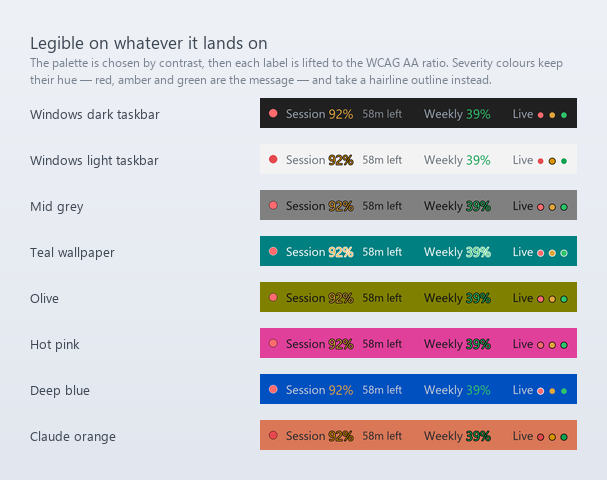
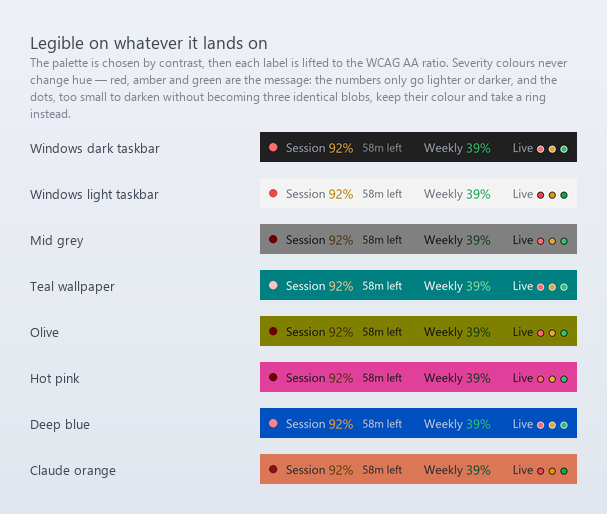
Rescue severity colours by lightness, not by outlining them
Building the gallery sheets made the previous fix look wrong at a glance. The
outline around every severity colour resolved, at the size these are actually
drawn, into a dark halo around each number — and strip.png is the first image
on the project page. It read as heavier and muddier than what it replaced,
which is a poor trade for a contrast ratio nobody sees.

Rendering the alternatives side by side settled it. Moving a colour along
LIGHTNESS alone keeps its hue: amber on a pale taskbar becomes a deeper
amber, still obviously amber and still obviously not the green beside it, and
no halo. On every background tried it looked cleaner than the outline and
than the untreated original.

The dots keep the outline, and for a reason the same comparison showed: they
are four pixels across, and darkening them enough to meet contrast turns red,
amber and green into three identical dark blobs. At that size a ring costs
nothing and the fill stays at full strength. So the numbers get the treatment
that suits a glyph you read, and the dots get the one that suits a shape you
recognise — which is what they respectively are.

Also here: the gallery sheets themselves, which is how all of this was seen.
A picture of every state turns out to be a rather effective test.

diff --git a/render.py b/render.py
@@ -69,14 +69,46 @@ def _rgb(color):
     return ImageColor.getrgb(color)[:3] if isinstance(color, str) else tuple(color[:3])
 
 
-def outline_for(bg):
-    """Black or white — whichever separates a shape from *bg*.
+def keeping_hue(color, bg, target=SHAPE_CONTRAST):
+    """*color* made legible on *bg* by changing only how light it is.
 
-    Used instead of recolouring anything whose COLOUR is the message. Red,
-    amber and green mean blocked, working and done; pushing them until they
-    contrast turns all three into the same near-black on a grey taskbar and
-    the same white on a teal one, which is a worse failure than being hard to
-    see. A hairline outline makes the shape visible and leaves the fill alone.
+    For anything whose COLOUR is the message — red, amber and green mean
+    blocked, working and done. Blending toward black or white the way
+    readable() does would turn all three into the same near-black on a grey
+    taskbar, which destroys the meaning rather than the legibility.
+
+    Moving along lightness alone keeps the hue: amber on a pale taskbar
+    becomes a deeper amber, still obviously amber, and still obviously not
+    the green next to it.
+    """
+    import colorsys
+
+    rgb, back = _rgb(color), _rgb(bg)
+    if contrast_ratio(rgb, back) >= target:
+        return color
+    h, light, s = colorsys.rgb_to_hls(*[c / 255.0 for c in rgb])
+    up = contrast_ratio(back, (255, 255, 255)) >= contrast_ratio(back, (0, 0, 0))
+    best, best_ratio = rgb, contrast_ratio(rgb, back)
+    for step in range(1, 25):
+        t = step / 24.0
+        cand_l = light + (1.0 - light) * t if up else light * (1.0 - t)
+        cand = tuple(round(c * 255) for c in colorsys.hls_to_rgb(h, cand_l, s))
+        ratio = contrast_ratio(cand, back)
+        if ratio > best_ratio:
+            best, best_ratio = cand, ratio
+        if ratio >= target:
+            break
+    return "#%02x%02x%02x" % best
+
+
+def outline_for(bg):
+    """Black or white — whichever separates a small shape from *bg*.
+
+    The session dots are four pixels across, and at that size darkening them
+    to meet contrast turns red, amber and green into three dark blobs. They
+    keep their colour at full strength and get a ring instead, which costs
+    nothing at that size. The numbers do the opposite: a ring around a glyph
+    reads as an outline you notice rather than a number you read.
     """
     back = _rgb(bg)
     return "#ffffff" if contrast_ratio(back, (255, 255, 255)) >= \
@@ -348,27 +380,27 @@ def render_strip(disp, bg_hex, theme, scale=3, metrics=("session", "weekly")):
     groups = []
     if "session" in metrics and disp.get("session_pct") is not None:
         sp = disp["session_pct"]
-        g = [("Session ", f_lbl, T["dim"], False),
+        g = [("Session ", f_lbl, T["dim"], "label"),
              (f"{sp}%", f_num, sev_color(T, disp.get("session_color", "grey")),
-              True)]
+              "sev")]
         if sp >= 100:  # be explicit when you're actually blocked
-            g.append(("   limit reached", f_dim, sev_color(T, "red"), True))
+            g.append(("   limit reached", f_dim, sev_color(T, "red"), "sev"))
         else:
             left = _fmt_left(disp.get("session_resets_at"))
             if left:
-                g.append(("   " + left, f_dim, T["faint"], False))
+                g.append(("   " + left, f_dim, T["faint"], "label"))
         groups.append(g)
     if "weekly" in metrics and disp.get("weekly_pct") is not None:
         groups.append([
-            ("Weekly ", f_lbl, T["dim"], False),
+            ("Weekly ", f_lbl, T["dim"], "label"),
             (f"{disp['weekly_pct']}%", f_num,
-             sev_color(T, disp.get("weekly_color", "grey")), True)])
+             sev_color(T, disp.get("weekly_color", "grey")), "sev")])
     # NOTE: sessions_* (plural) are the LIVE CLI sessions; session_* (singular)
     # is the 5-hour usage meter. The two dicts are merged before rendering.
     if "sessions" in metrics and disp.get("sessions_count") is not None:
         # "Live", not "Sessions": the strip already says "Session 61%" for the
         # 5-hour usage window, and the two side by side read as the same thing.
-        g = [("Live ", f_lbl, T["dim"], False)]
+        g = [("Live ", f_lbl, T["dim"], "label")]
         dots = disp.get("sessions_dots") or []
         if dots:
             # One dot per session, coloured by its state — readable without
@@ -376,18 +408,18 @@ def render_strip(disp, bg_hex, theme, scale=3, metrics=("session", "weekly")):
             f_dot = _font("reg", 13 * S)
             for i, color in enumerate(dots):
                 g.append(("●" + (" " if i < len(dots) - 1 else ""),
-                          f_dot, sev_color(T, color), True))
+                          f_dot, sev_color(T, color), "dot"))
             over = disp.get("sessions_dots_overflow") or 0
             if over:
-                g.append((f" +{over}", f_dim, T["dim"], False))
+                g.append((f" +{over}", f_dim, T["dim"], "label"))
         else:
-            g.append(("0", f_num, T["dim"], False))
+            g.append(("0", f_num, T["dim"], "label"))
         groups.append(g)
     if not groups:
         groups.append([("Claude  " + (disp.get("session") or "—"), f_dim,
-                        T["dim"], False)])
+                        T["dim"], "label")])
     if disp.get("_demo"):  # unmistakable marker so simulated data isn't mistaken for real
-        groups.insert(0, [("DEMO", f_num, sev_color(T, "amber"), True)])
+        groups.insert(0, [("DEMO", f_num, sev_color(T, "amber"), "sev")])
 
     cand = []
     if disp.get("session_pct") is not None:
@@ -407,7 +439,7 @@ def render_strip(disp, bg_hex, theme, scale=3, metrics=("session", "weekly")):
     tmp = ImageDraw.Draw(Image.new("RGB", (4, 4)))
 
     def gw(g):
-        return sum(tmp.textlength(t, font=f) for (t, f, _c, _m) in g)
+        return sum(tmp.textlength(t, font=f) for (t, f, _c, _k) in g)
 
     total = PAD + (DOT_R * 2 + DOTGAP) + sum(gw(g) for g in groups) \
         + GGAP * (len(groups) - 1) + PAD
@@ -423,34 +455,27 @@ def render_strip(disp, bg_hex, theme, scale=3, metrics=("session", "weekly")):
     # wallpaper the theme's own greys all but vanish — measured at 1.2:1,
     # which is not dim, it is absent. Fixed on the TEXT, never the background:
     # blending into the taskbar is the point of the strip.
-    ring = outline_for(bg_hex)
-    faint_dot = contrast_ratio(_rgb(dot_color), _rgb(bg_hex)) < SHAPE_CONTRAST
     r = DOT_R * (1.7 if disp.get("_pulse") else 1.0)
-    d.ellipse([dx - r, cy - r, dx + r, cy + r], fill=dot_color,
-              outline=ring if faint_dot else None,
-              width=max(1, S // 2) if faint_dot else 0)
+    d.ellipse([dx - r, cy - r, dx + r, cy + r],
+              fill=keeping_hue(dot_color, bg_hex))
     x = PAD + DOT_R * 2 + DOTGAP
     for gi, g in enumerate(groups):
         if gi > 0:
             x += GGAP
-        for (t, f, c, means) in g:
+        for (t, f, c, kind) in g:
             # Every glyph passes through here, the one place that knows both
             # the colour and what it will sit on.
-            if not means:
+            if kind == "dot":
+                d.text((x, cy), t, font=f, fill=c, anchor="lm",
+                       stroke_width=max(1, round(S * 0.6)),
+                       stroke_fill=outline_for(bg_hex))
+            elif kind == "sev":
+                # Lighter or darker only: which colour it is IS the message.
+                d.text((x, cy), t, font=f, fill=keeping_hue(c, bg_hex),
+                       anchor="lm")
+            else:
                 d.text((x, cy), t, font=f, fill=readable(c, bg_hex),
                        anchor="lm")
-            elif contrast_ratio(_rgb(c), _rgb(bg_hex)) < SHAPE_CONTRAST:
-                # Keep the hue — it is what red, amber and green MEAN — and
-                # separate it from the background with a hairline instead.
-                # Scaled with S, because the strip is drawn at S× and then
-                # downsampled: a flat 1px stroke here would come out a third
-                # of a pixel and vanish in the resize. Kept under a full pixel
-                # once resolved — enough to separate the glyph, not so much
-                # that you read the outline instead of the number.
-                d.text((x, cy), t, font=f, fill=c, anchor="lm",
-                       stroke_width=max(1, round(S * 0.7)), stroke_fill=ring)
-            else:
-                d.text((x, cy), t, font=f, fill=c, anchor="lm")
             x += tmp.textlength(t, font=f)
 
     return img.resize((max(1, round(total / S)), round(H / S)), Image.LANCZOS)

diff --git a/tests/test_render.py b/tests/test_render.py
@@ -725,9 +725,33 @@ def test_readable_rescues_every_label_colour_on_every_background():
                     f"{key} on {bg} in the {theme} theme is {ratio:.2f}:1")
 
 
-def test_outline_picks_the_end_the_background_is_furthest_from():
-    assert render.outline_for("#000000") == "#ffffff"
-    assert render.outline_for("#ffffff") == "#000000"
+def test_keeping_hue_leaves_a_visible_colour_alone():
+    assert render.keeping_hue("#e5484d", "#ffffff") == "#e5484d"
+
+
+def test_keeping_hue_reaches_the_target_without_changing_the_hue():
+    import colorsys
+    for bg in HOSTILE:
+        for name in ("red", "amber", "green"):
+            before = render.THEMES["light"][name]
+            after = render.keeping_hue(before, bg)
+            ratio = render.contrast_ratio(render._rgb(after), render._rgb(bg))
+            assert ratio >= render.SHAPE_CONTRAST - 0.01, \
+                f"{name} on {bg} is only {ratio:.2f}:1"
+            hue_before = colorsys.rgb_to_hls(
+                *[c / 255 for c in render._rgb(before)])[0]
+            hue_after = colorsys.rgb_to_hls(
+                *[c / 255 for c in render._rgb(after)])[0]
+            assert abs(hue_before - hue_after) < 0.02, (
+                f"{name} changed hue on {bg} — red, amber and green ARE the "
+                f"message, so only their lightness may move")
+
+
+def test_severity_colours_do_not_converge_on_a_hostile_background():
+    seen = {render.keeping_hue(render.THEMES["light"][n], "#808080")
+            for n in ("red", "amber", "green")}
+    assert len(seen) == 3, (
+        "blocked, working and done must still look different from each other")
 
 
 def test_severity_colours_stay_distinct_on_a_hostile_background():

diff --git a/assets/make_gallery.py b/assets/make_gallery.py
@@ -216,8 +216,10 @@ def contrast_gallery():
     rows_sheet(items, "gallery-contrast.png",
                "Legible on whatever it lands on",
                "The palette is chosen by contrast, then each label is lifted to "
-               "the WCAG AA ratio. Severity colours keep their hue — red, amber "
-               "and green are the message — and take a hairline outline instead.",
+               "the WCAG AA ratio. Severity colours never change hue — red, "
+               "amber and green are the message: the numbers only go lighter or "
+               "darker, and the dots, too small to darken without becoming three "
+               "identical blobs, keep their colour and take a ring instead.",
                label_w=230)
 
 

diff --git a/README.md b/README.md
@@ -32,7 +32,7 @@ Claude's Pro / Max / Team plans enforce a rolling **5‑hour session** limit and
 > ### 🖱 Put it anywhere
 > The strip is a **free‑floating, always‑on‑top** widget — not locked to the taskbar. Drag it to a screen edge, over a window, or onto a second monitor, and it **remembers the spot**.
 >
-> Wherever it lands, it stays **readable**: it picks the light or dark palette by contrast against what's behind it, then lifts each label the rest of the way to the WCAG AA ratio if that isn't enough — on a saturated wallpaper the theme greys alone measure about 1.2:1. The severity colours are exempt, because red, amber and green *are* the message: they keep their hue and get a hairline outline instead. The background is never touched — blending into the taskbar is the point.
+> Wherever it lands, it stays **readable**: it picks the light or dark palette by contrast against what's behind it, then lifts each label the rest of the way to the WCAG AA ratio if that isn't enough — on a saturated wallpaper the theme greys alone measure about 1.2:1. Severity colours never change **hue**, because red, amber and green *are* the message: the numbers only go lighter or darker, and the dots — too small to darken without becoming three identical blobs — keep their colour and take a thin ring instead. The background is never touched: blending into the taskbar is the point.
 > *(On **macOS** the native menu‑bar item is the default; the same floating widget is available with `app.py bar` — see [Platform support](#platform-support).)*
 
 <p align="center"><img src="assets/anywhere.png" alt="Drag the Windows strip anywhere on screen — not just the taskbar" width="780"></p>
@@ -96,7 +96,9 @@ Each meter combination, each severity, the live‑session dot row filling up and
 
 ### …on whatever it's sitting on
 
-The strip samples the colour behind it and paints itself in that, so it can end up on anything. It picks the palette by contrast, then lifts each label to the WCAG AA ratio — on a saturated wallpaper the theme greys alone measure about **1.2:1**, which isn't dim, it's absent. Severity colours are exempt and take a hairline outline instead, because red, amber and green *are* the message.
+The strip samples the colour behind it and paints itself in that, so it can end up on anything. It picks the palette by contrast, then lifts each label to the WCAG AA ratio — on a saturated wallpaper the theme greys alone measure about **1.2:1**, which isn't dim, it's absent.
+
+Severity colours are handled separately, because red, amber and green *are* the message. Recolouring them the way labels are recoloured turns all three into the same near-black on a grey taskbar, which destroys the meaning to fix the legibility. So the **numbers** move along lightness only — a deeper amber is still obviously amber — and the **dots**, at four pixels too small to darken without becoming three identical blobs, keep their colour at full strength and take a thin ring instead.
 
 <p align="center"><img src="assets/gallery-contrast.png" alt="The strip staying legible on eight different backgrounds" width="640"></p>
 
